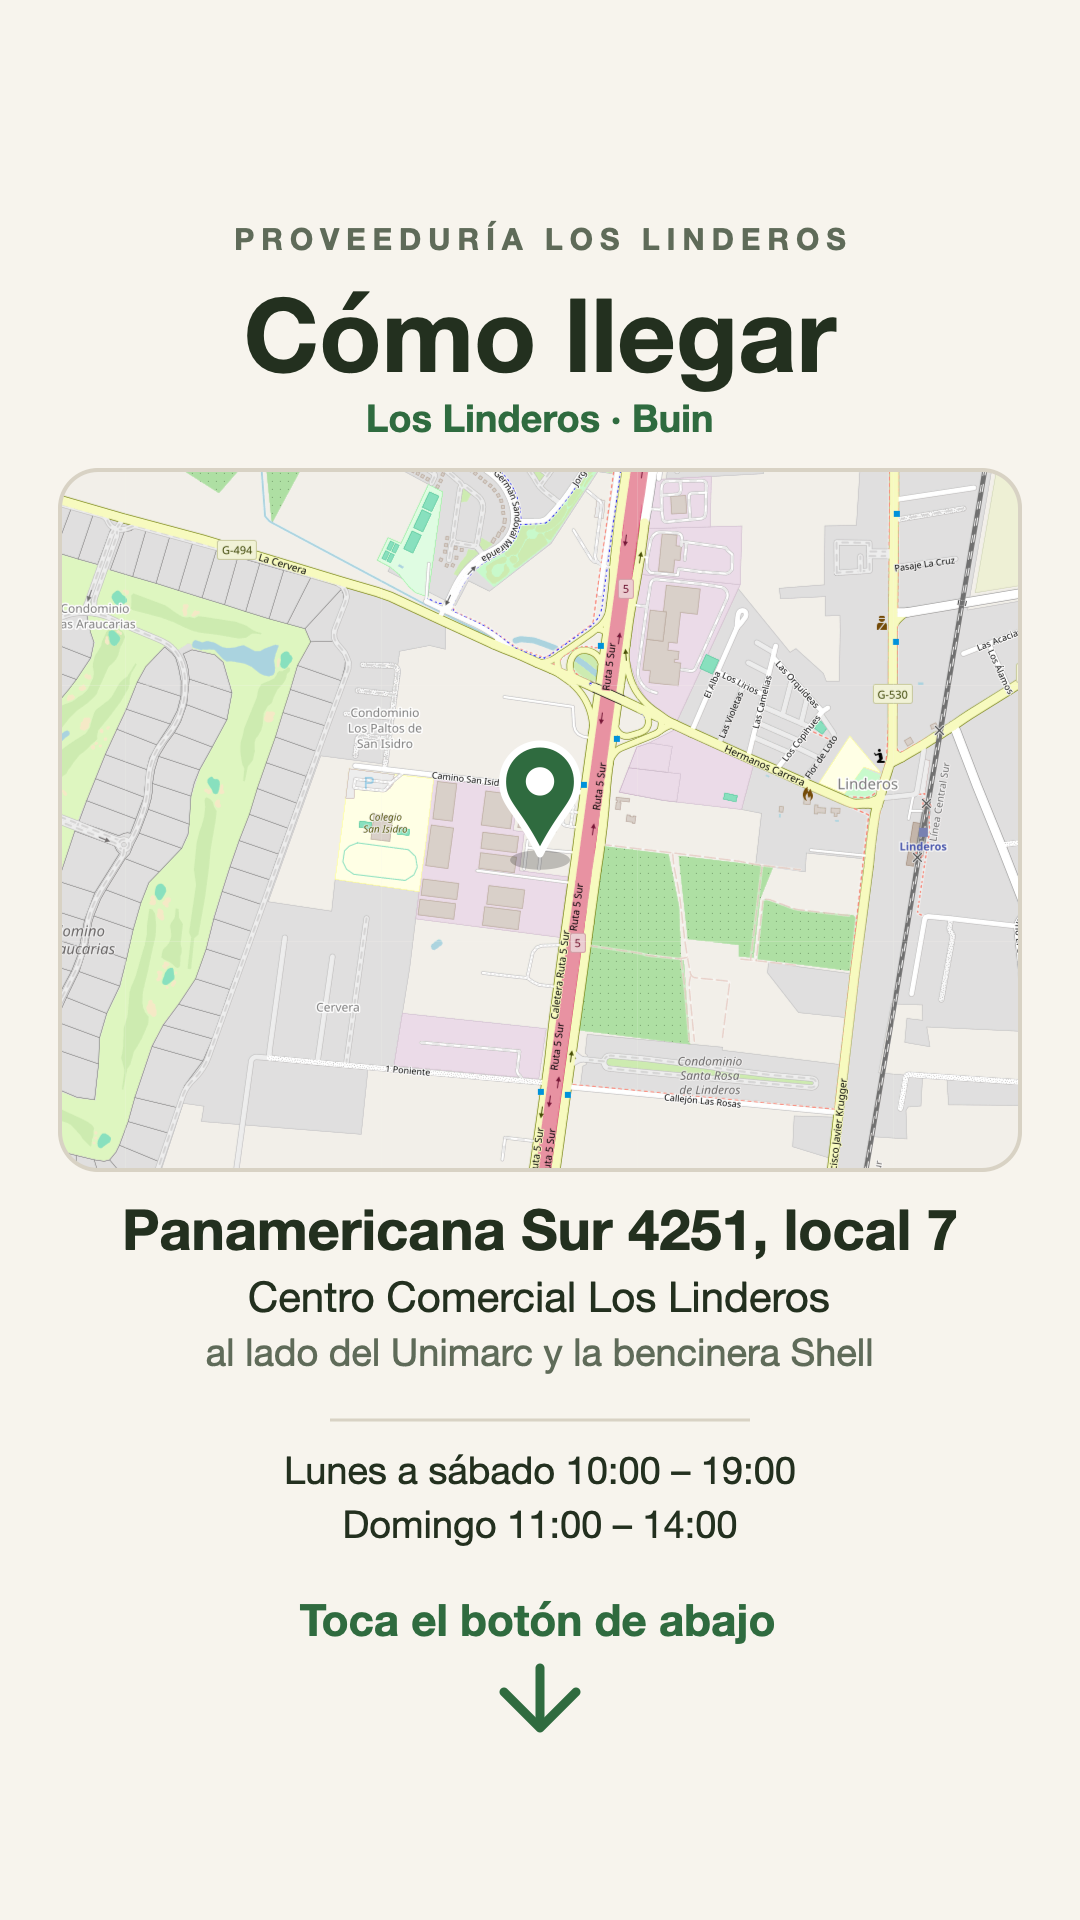
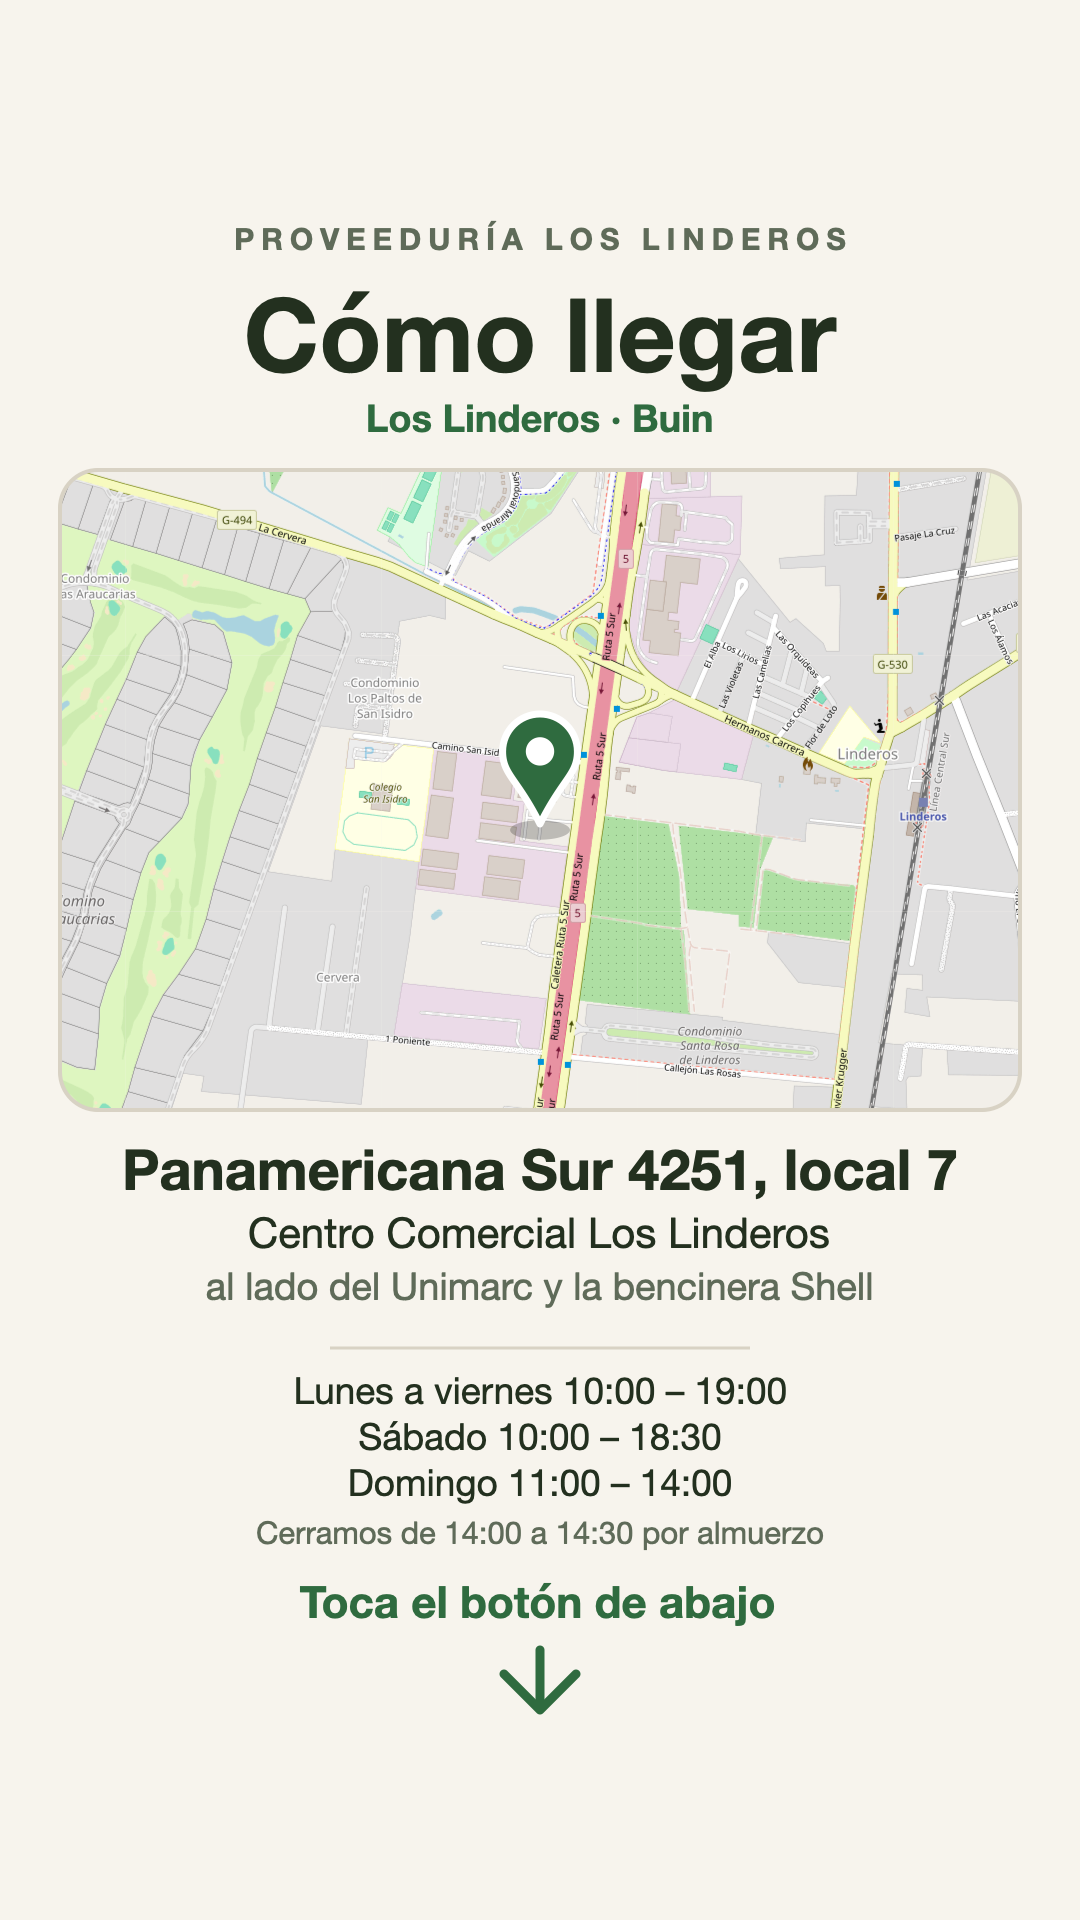
Actualiza el horario: sábado hasta 18:30 y pausa de almuerzo
Lun-vie 10-19, sáb 10-18:30, dom 11-14, cerrado de 14:00 a 14:30.
El indicador de abierto/cerrado ahora maneja dos tramos por día y avisa
cuando la pausa es por almuerzo.

diff --git a/index.html b/index.html
@@ -175,6 +175,15 @@
   .horario-linea + .horario-linea { margin-top: 3px; }
   .horario-linea span:first-child { color: var(--suave); }
 
+  .horario-nota {
+    display: block;
+    margin-top: 9px;
+    padding-top: 9px;
+    border-top: 1px solid var(--borde);
+    color: var(--suave);
+    font-size: 13.5px;
+  }
+
   footer { margin-top: 26px; text-align: center; }
 
   footer a {
@@ -281,8 +290,10 @@
     </p>
     <p>
       <span class="rotulo">Horario</span>
-      <span class="horario-linea"><span>Lunes a sábado</span><span>10:00 – 19:00</span></span>
+      <span class="horario-linea"><span>Lunes a viernes</span><span>10:00 – 19:00</span></span>
+      <span class="horario-linea"><span>Sábado</span><span>10:00 – 18:30</span></span>
       <span class="horario-linea"><span>Domingo</span><span>11:00 – 14:00</span></span>
+      <span class="horario-nota">Cerramos de 14:00 a 14:30 por almuerzo</span>
     </p>
   </div>
 
@@ -300,9 +311,21 @@
   document.getElementById("gmaps").href = "https://www.google.com/maps/dir/?api=1&destination=" + COORD + "&travelmode=driving";
   document.getElementById("apple").href = "https://maps.apple.com/?daddr=" + COORD + "&dirflg=d";
 
-  // Abierto / cerrado en vivo, en hora de Chile. Lun-sáb 10-19, dom 11-14.
+  // Abierto / cerrado en vivo, en hora de Chile.
+  // Lun-vie 10-19, sáb 10-18:30, dom 11-14. Cerrado de 14:00 a 14:30 por almuerzo
+  // (el domingo no aplica: a esa hora ya cerró). Los tramos van en minutos desde
+  // medianoche, así se comparan directo contra la hora actual.
   (function () {
-    var horario = { 0: [11, 14], 1: [10, 19], 2: [10, 19], 3: [10, 19], 4: [10, 19], 5: [10, 19], 6: [10, 19] };
+    var MAÑANA = [600, 840];               // 10:00 – 14:00
+    var horario = {
+      0: [[660, 840]],                     // domingo    11:00 – 14:00
+      1: [MAÑANA, [870, 1140]],            // lun a vie  10:00 – 14:00 y 14:30 – 19:00
+      2: [MAÑANA, [870, 1140]],
+      3: [MAÑANA, [870, 1140]],
+      4: [MAÑANA, [870, 1140]],
+      5: [MAÑANA, [870, 1140]],
+      6: [MAÑANA, [870, 1110]]             // sábado     10:00 – 14:00 y 14:30 – 18:30
+    };
 
     var partes;
     try {
@@ -322,15 +345,30 @@
     var dia = dias[valor("weekday").toLowerCase().replace(".", "")];
     if (dia === undefined) return;
 
-    var minutos = parseInt(valor("hour"), 10) * 60 + parseInt(valor("minute"), 10);
-    var tramo   = horario[dia];
-    var abierto = minutos >= tramo[0] * 60 && minutos < tramo[1] * 60;
+    var ahora  = parseInt(valor("hour"), 10) * 60 + parseInt(valor("minute"), 10);
+    var tramos = horario[dia];
+    var reloj  = function (m) {
+      return Math.floor(m / 60) + ":" + (m % 60 < 10 ? "0" : "") + (m % 60);
+    };
+
+    var texto = "Cerrado ahora", abierto = false;
+    for (var i = 0; i < tramos.length; i++) {
+      if (ahora >= tramos[i][0] && ahora < tramos[i][1]) {
+        abierto = true;
+        texto = "Abierto ahora · cierra a las " + reloj(tramos[i][1]);
+        break;
+      }
+      if (ahora < tramos[i][0]) {
+        // Todavía no abre este tramo: si es el segundo, es la pausa de almuerzo.
+        texto = (i > 0 ? "Cerrado por almuerzo · abre a las " : "Cerrado · abre a las ")
+              + reloj(tramos[i][0]);
+        break;
+      }
+    }
 
     var caja = document.getElementById("estado");
     caja.dataset.abierto = abierto ? "si" : "no";
-    document.getElementById("estado-texto").textContent =
-      abierto ? "Abierto ahora · cierra a las " + tramo[1] + ":00"
-              : "Cerrado ahora";
+    document.getElementById("estado-texto").textContent = texto;
     caja.hidden = false;
   })();
 </script>
